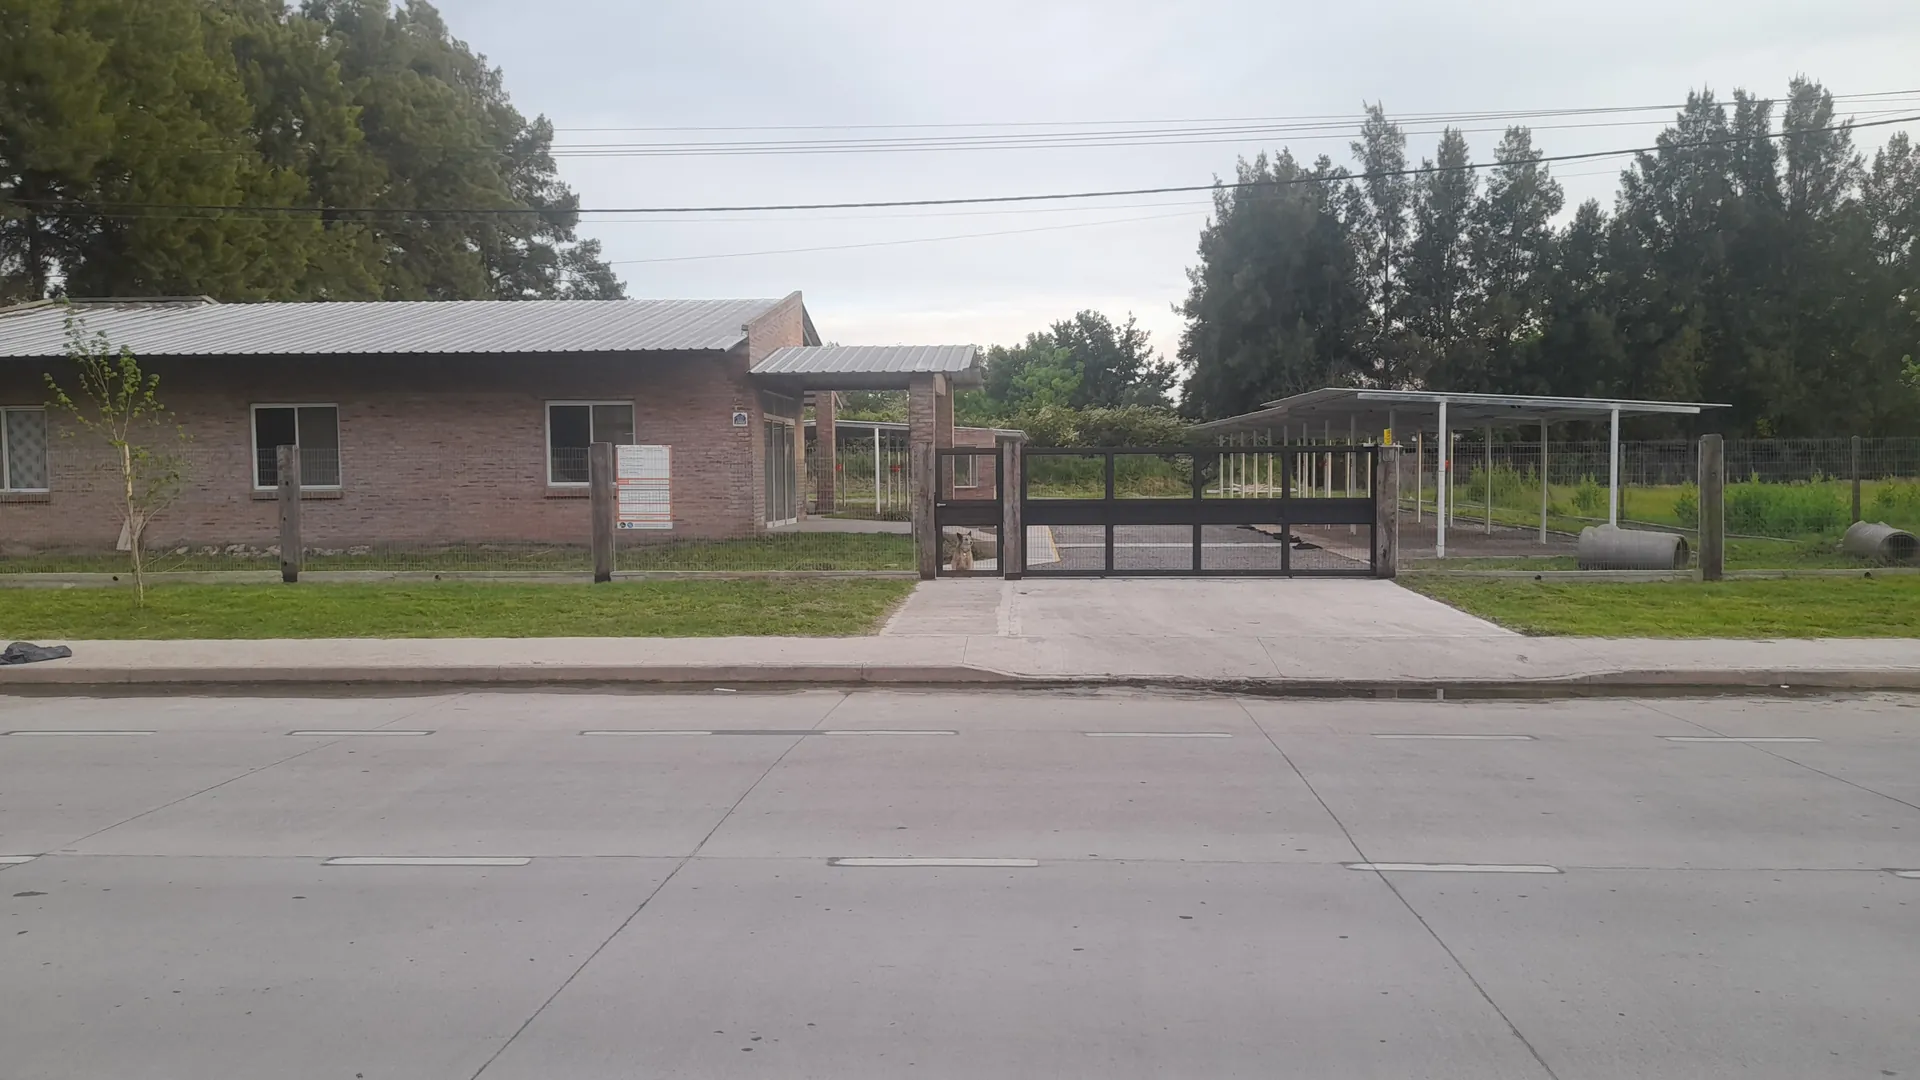
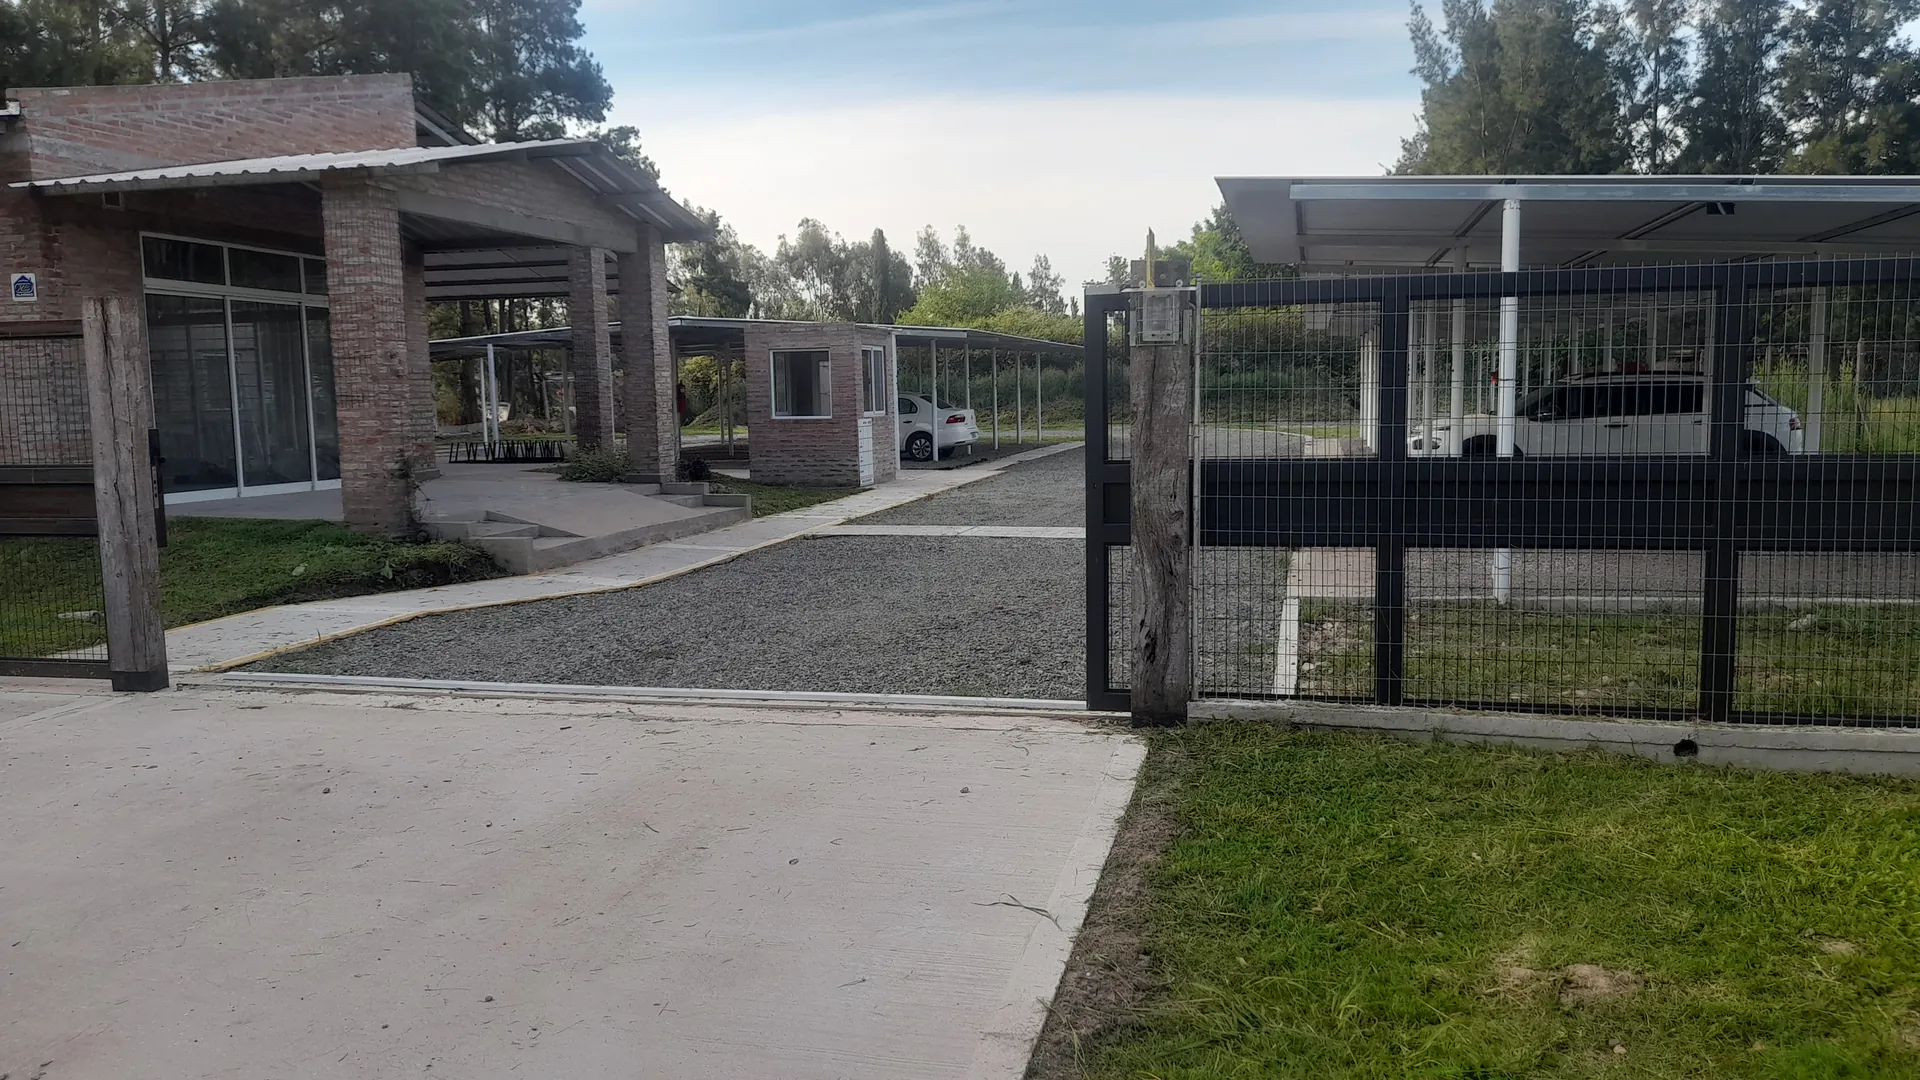
Actualización de fotos

diff --git a/assets/photos/gallery.js b/assets/photos/gallery.js
@@ -5,31 +5,23 @@ window.SITE_PHOTOS = [
     "full": "./assets/photos/01.webp"
   },
   {
-    "src": "./assets/photos/20261022_064338_thumb.webp",
-    "full": "./assets/photos/20261022_064338.webp"
+    "src": "./assets/photos/02_thumb.webp",
+    "full": "./assets/photos/02.webp"
   },
   {
-    "src": "./assets/photos/20261022_064346_thumb.webp",
-    "full": "./assets/photos/20261022_064346.webp"
+    "src": "./assets/photos/03_thumb.webp",
+    "full": "./assets/photos/03.webp"
   },
   {
-    "src": "./assets/photos/20261022_064404_thumb.webp",
-    "full": "./assets/photos/20261022_064404.webp"
+    "src": "./assets/photos/04_thumb.webp",
+    "full": "./assets/photos/04.webp"
   },
   {
-    "src": "./assets/photos/20261022_064425_thumb.webp",
-    "full": "./assets/photos/20261022_064425.webp"
+    "src": "./assets/photos/05_thumb.webp",
+    "full": "./assets/photos/05.webp"
   },
   {
-    "src": "./assets/photos/20261022_064441_thumb.webp",
-    "full": "./assets/photos/20261022_064441.webp"
-  },
-  {
-    "src": "./assets/photos/20261022_064522_thumb.webp",
-    "full": "./assets/photos/20261022_064522.webp"
-  },
-  {
-    "src": "./assets/photos/20261022_064744_thumb.webp",
-    "full": "./assets/photos/20261022_064744.webp"
+    "src": "./assets/photos/06_thumb.webp",
+    "full": "./assets/photos/06.webp"
   }
 ];
